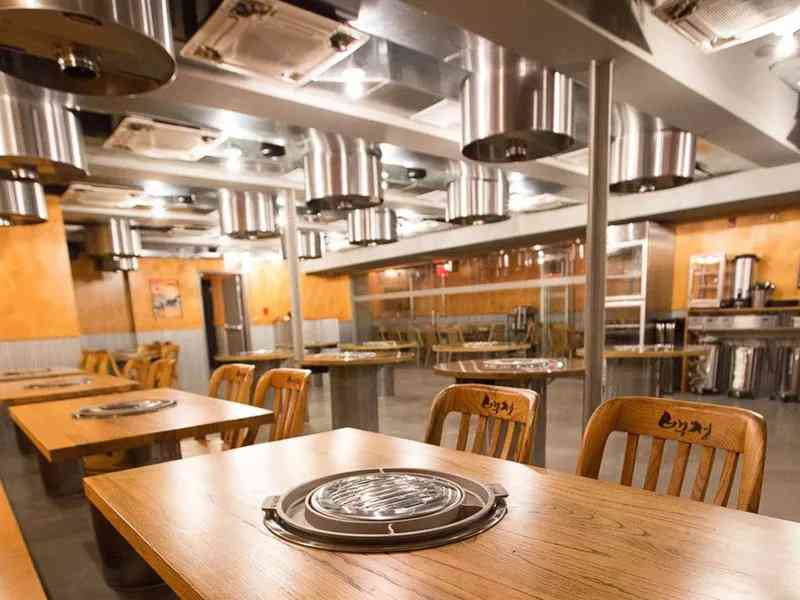
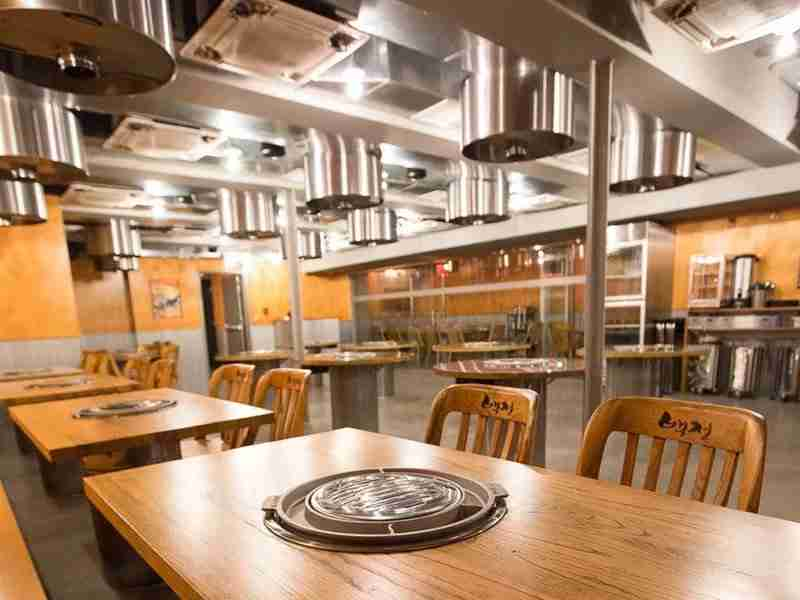
GoogleND Stage 2 Project

diff --git a/app/Gruntfile.js b/app/Gruntfile.js
@@ -40,12 +40,12 @@ module.exports = function(grunt) {
             //name: 'small',
             width: 400, /* 400px for devices with smallers screen */
 			//suffix: '-small',
-            quality: 20
+            quality: 15
           },{
             //name: 'large',
             width: 800, /* 800 px for devices with large screen */
             //suffix: '-large',
-            quality: 30
+            quality: 20
           }]
         },
         files: [{
